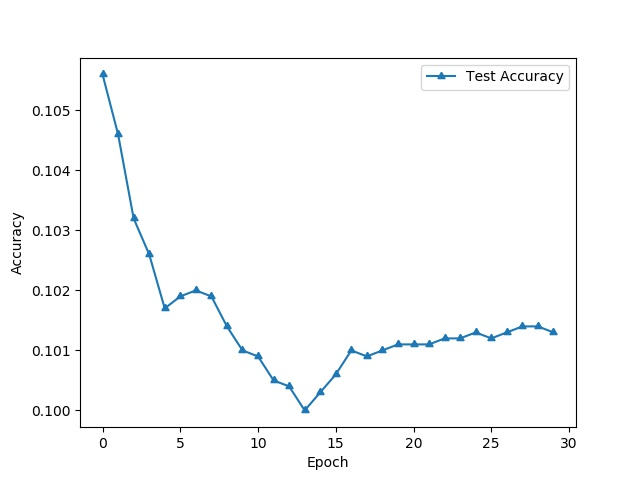
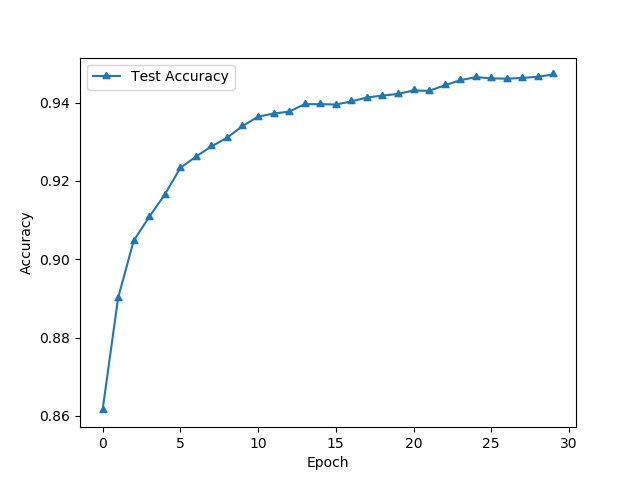
bla

diff --git a/backprop/network.py b/backprop/network.py
@@ -22,6 +22,7 @@ class Network(object):
         layer is assumed to be an input layer, and by convention we
         won't set any biases for those neurons, since biases are only
         ever used in computing the outputs from later layers."""
+        self.current_db = np
         self.num_layers = len(sizes)
         self.sizes = sizes
         self.biases = [np.random.randn(y, 1) for y in sizes[1:]]
@@ -38,7 +39,8 @@ class Network(object):
         n = len(training_data)
         # train_acc = []
         # train_loss = []
-        test_acc = []
+        # test_acc = []
+        euc_norms = []
         for j in tqdm(range(epochs)):
             random.shuffle(list(training_data))
             mini_batches = [
@@ -46,12 +48,28 @@ class Network(object):
                 for k in range(0, n, mini_batch_size)]
             for mini_batch in mini_batches:
                 self.update_mini_batch(mini_batch, learning_rate)
+            db_norms = []
+            for i, dbi in enumerate(self.current_db):
+                norm = np.linalg.norm(dbi)
+                norm = norm / float(len(training_data))
+                db_norms.append(norm)
+            euc_norms.append(db_norms)
+        # for xe, ye in zip(range(epochs), euc_norms)
+        #     plt.scatter([xe]*len(ye), ye)
+        # plt.xticks(range(epochs))
+        plt.plot(range(epochs), euc_norms)
+        plt.xlabel('Epoch')
+        plt.ylabel('Euclidean Norms')
+        plt.savefig('deucnorms.jpg')
+        plt.show()
+
+
             # train_acc.append(self.one_hot_accuracy(training_data))
             # train_loss.append(self.loss(training_data))
-            test_acc.append(self.one_label_accuracy(test_data))
+            # test_acc.append(self.one_label_accuracy(test_data))
 
             #print ("Epoch {0} test accuracy: {1}".format(j, self.one_label_accuracy(test_data)))
-
+        print("Epoch Final test accuracy: {0}".format(self.one_label_accuracy(test_data)))
         # tacc, = plt.plot(range(epochs), train_acc, label='Train Accuracy', marker=(1,0))
         # plt.legend(handles=[tacc])
         # plt.xlabel('Epoch')
@@ -64,12 +82,12 @@ class Network(object):
         # plt.ylabel('Loss')
         # plt.savefig('trainloss.jpg')
         # plt.show()
-        tstacc, = plt.plot(range(epochs), test_acc, label='Test Accuracy', marker=(3,0))
-        plt.legend(handles=[tstacc])
-        plt.xlabel('Epoch')
-        plt.ylabel('Accuracy')
-        plt.savefig('testacc_c.jpg')
-        plt.show()
+        # tstacc, = plt.plot(range(epochs), test_acc, label='Test Accuracy', marker=(3,0))
+        # plt.legend(handles=[tstacc])
+        # plt.xlabel('Epoch')
+        # plt.ylabel('Accuracy')
+        # plt.savefig('testacc_c.jpg')
+        # plt.show()
 
 
 
@@ -125,7 +143,7 @@ class Network(object):
             active = activations[i]
             cdw = delta.dot(active.transpose())
             dw.append(cdw)
-            
+        self.current_db = db
         return db, dw
 
     def one_label_accuracy(self, data):

diff --git a/backprop/main.py b/backprop/main.py
@@ -1,6 +1,6 @@
 import data
 import network
 
-training_data, test_data = data.load(train_size=50000,test_size=10000)
-net = network.Network([784, 40, 10])
-net.SGD(training_data, epochs=30, mini_batch_size=10, learning_rate=0.1, test_data=test_data)
+training_data, test_data = data.load(train_size=10000,test_size=5000)
+net = network.Network([784, 30, 30, 30, 30, 10])
+net.SGD(training_data, epochs=30, mini_batch_size=10000, learning_rate=0.1, test_data=test_data)
